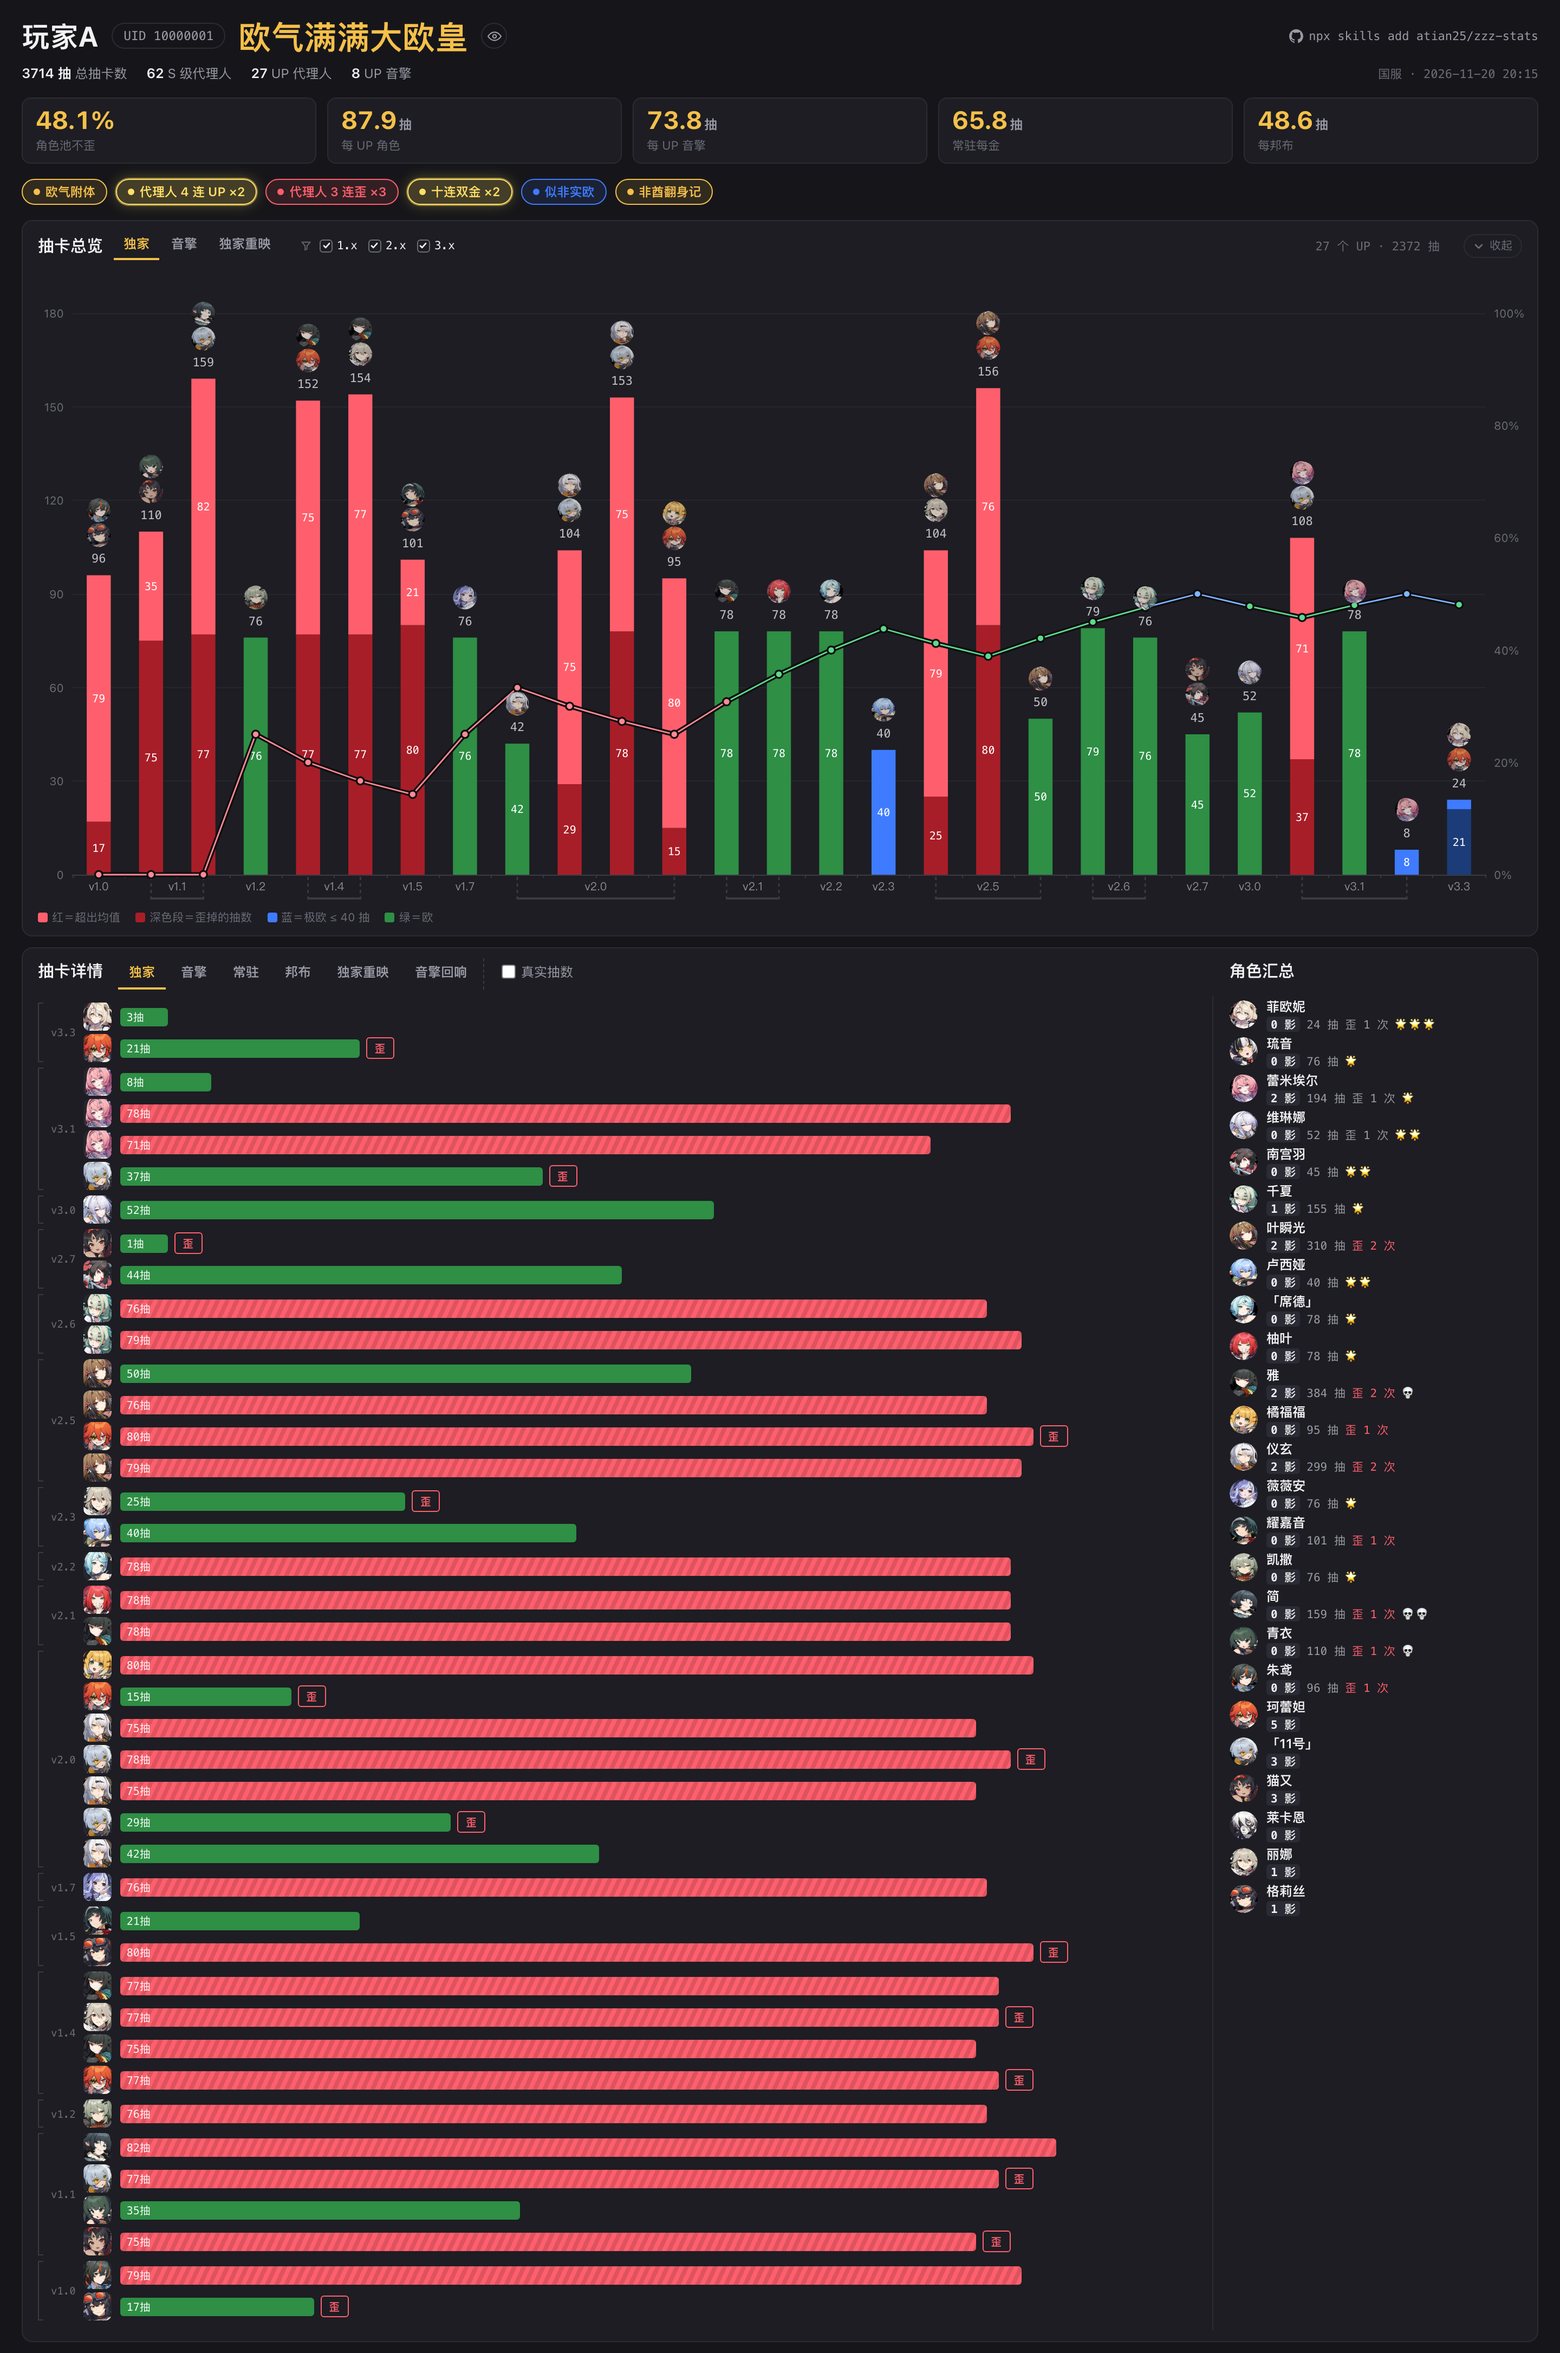
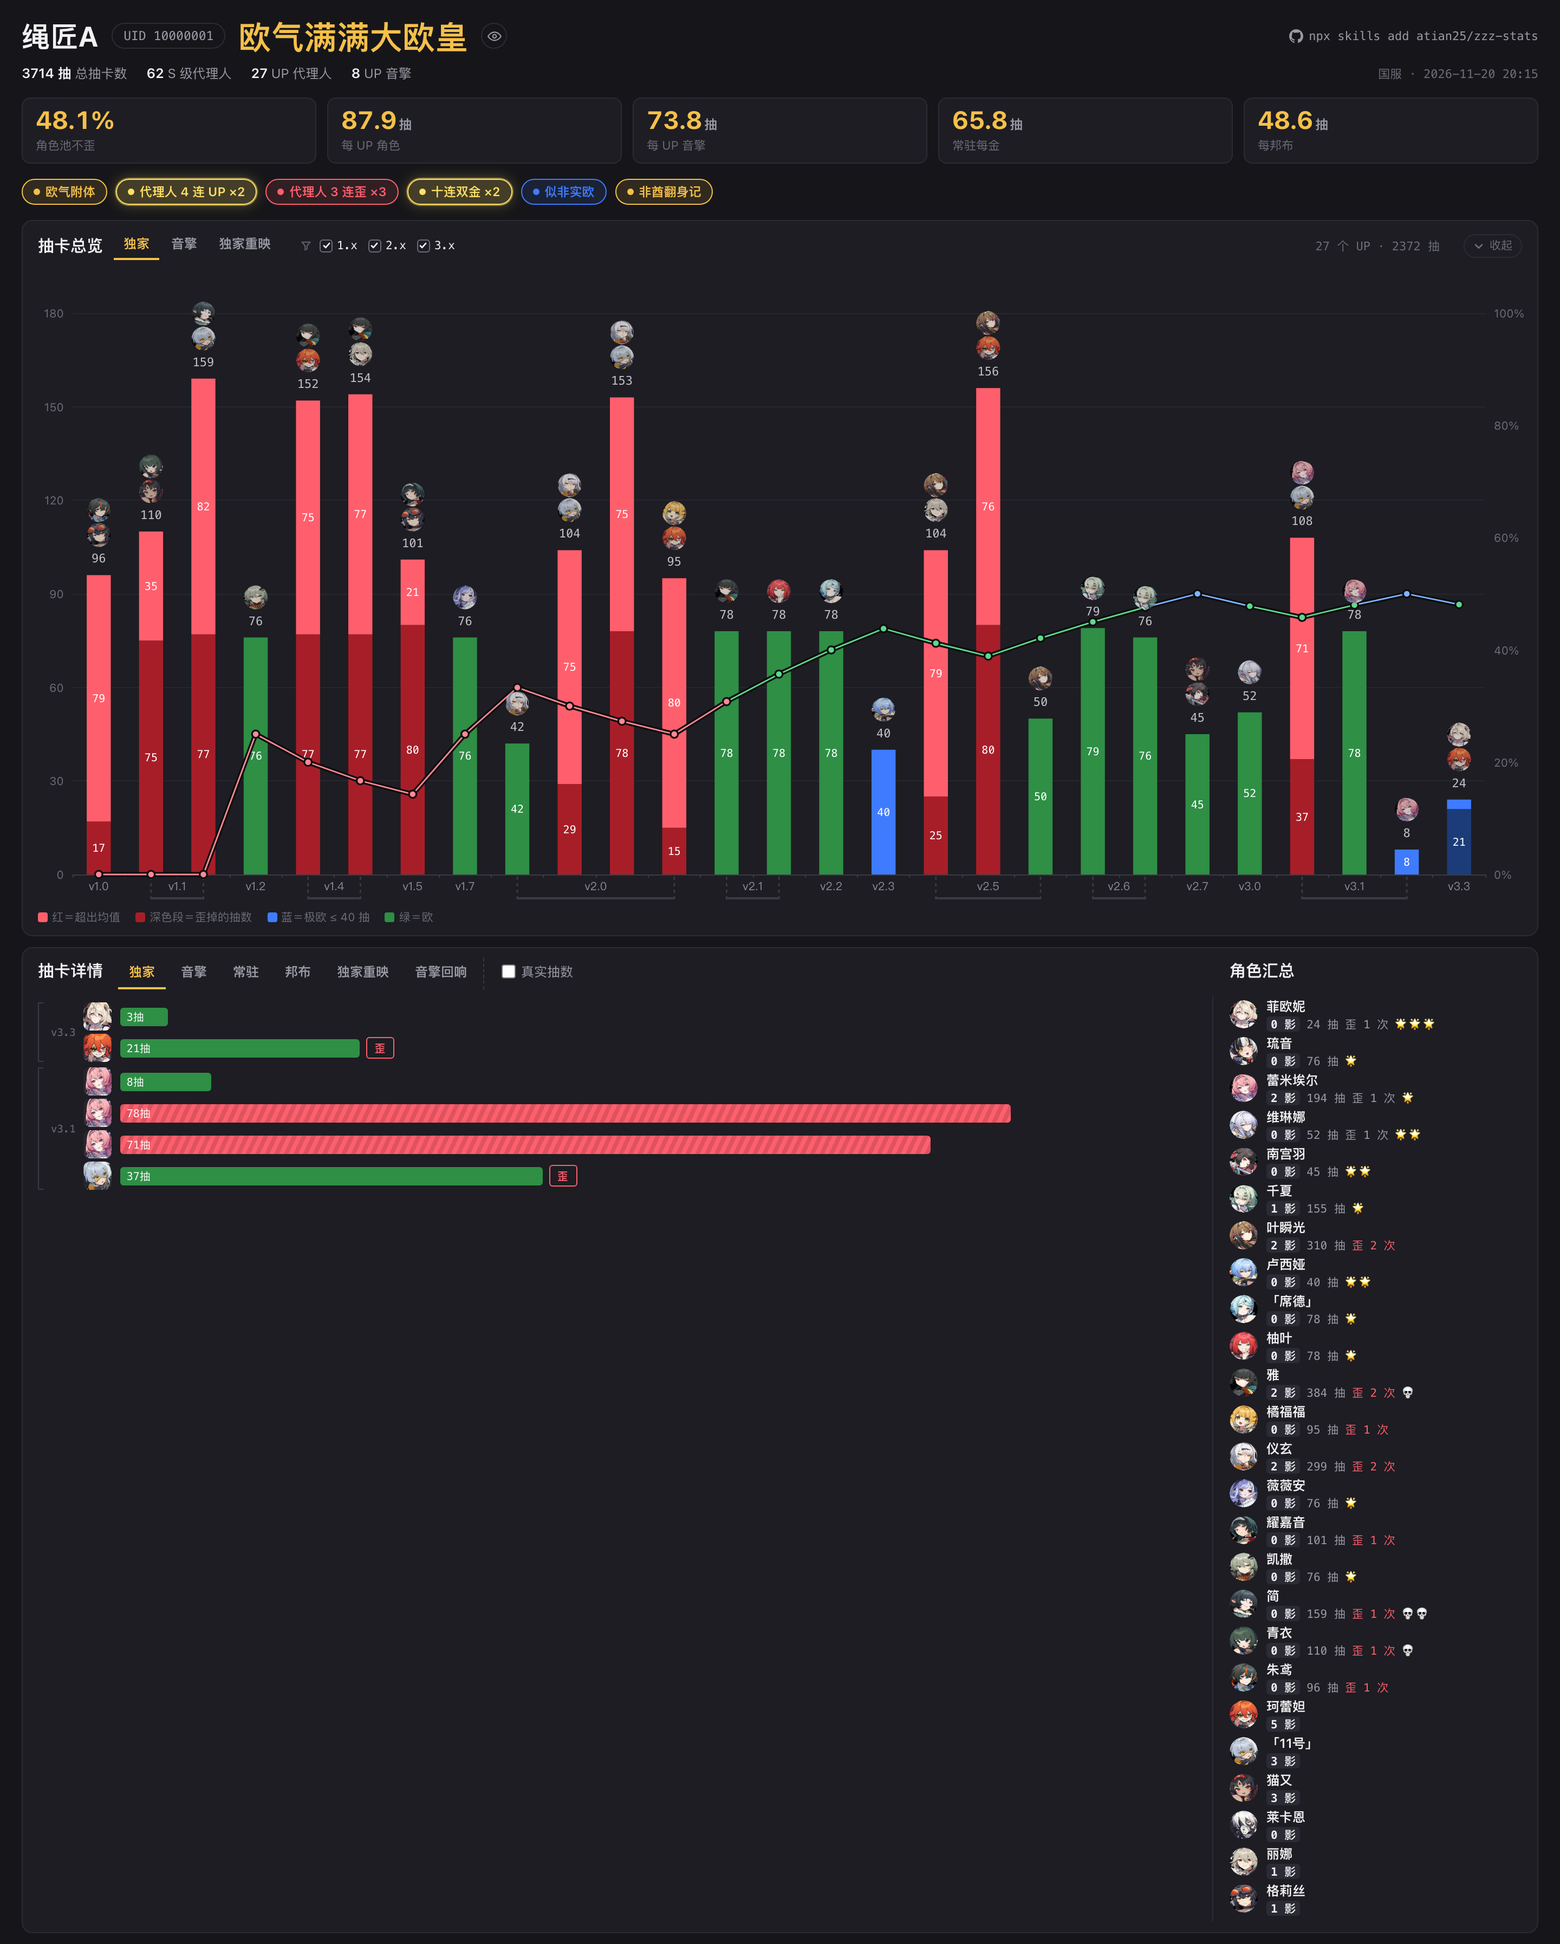
docs: 回填绳匠A/B 改名与 --detail-versions，按新尺寸重截预览图
README：--preview 的尺寸描述从「2880×2840 这样的长图」改成实测的
2880×3588，并写明默认只留 2 个版本组（改前整页 4342px），补充
--detail-versions 的示例命令与三种取值语义。

AGENTS.md：预览图那条同步新尺寸与截断默认值。

SKILL.md：在 --preview 隐私那段后面补截断口径——默认 2 组、右栏不截断、
显式传值优先，以及「截断后左栏短于右栏的留白不要改 align-items 去修」。

report-rules.md §9.3：新增「--detail-versions」小节，写清改前（16 组
41 行 4342px）vs 改后（2 组 6 行 3588px）、为什么按组不按行、右栏为什么
不截断、默认值四种情况、注入实现的两个坑（hidden 与 display 的优先级、
必须在切 tab 之后），以及截断后左栏空 666px 是 stretch 的必然结果
（实测 start/stretch 下 charsH 都是 854、docH 都是 1794，改 align 只会
让竖线断在半空）。

docs/preview.png 按新逻辑重截：2880×3588，详情 2 个版本组，右栏 25 行完整。

diff --git a/AGENTS.md b/AGENTS.md
@@ -19,7 +19,10 @@
   **不要**按 SKILL.md §0 的浏览器优先级去现拼 Chrome 命令行——那是采集期「找能扫码登录的浏览器」的语义，
   跟「截一张本地 HTML 的图」是两件事。`--user-data-dir` 脚本里已焊死，别再踩。
 - **README 预览图走 `node skills/zzz-stats/scripts/screenshot.mjs --preview`，不要手截。**
-  出的是 `docs/preview.png`：1440 逻辑宽、DPR 2、整页（当前实测 `2880×2840`，高度跟内容走）。
+  出的是 `docs/preview.png`：1440 逻辑宽、DPR 2、整页（当前实测 `2880×3588`，高度跟内容走）。
+  **详情列表默认只留前 2 个版本组**（`--detail-versions 2`，`--preview` 的默认值），
+  右栏角色汇总不截断——整页原样截会有 16 个版本组、4342px 高，README 上根本看不完。
+  显式 `--detail-versions N` 以传值为准，`0` 或不带 `--preview` 就是不截断。
   隐私按数据集来源分流：产物里 `meta.synthetic === true`（`fixtures/` 里的模拟数据）**不打码**，
   截图前反向断言昵称/UID **不含** `*`；其余一切**强制打码到 2**，断言 `eye=2` 且昵称/UID 含 `*`。
   **没有标记一律当真实数据**（fail-safe），两条分支断言不过都中止、不写文件。
@@ -64,7 +67,7 @@
   collect / save-in-page-json 用它决定**往哪写**，build-report / sync-icons / screenshot 用它决定**去哪读**。
   五处各写一遍必然漂移，而漂移的后果不是报错，是「写得进去、读不出来」。
 - **fixtures 里的数据必须脱敏后再入库。** 这是公开仓库：`meta.json` 的 `uid` 是假值
-  （`10000001` / `10000002`），昵称也用**中性占位名**（「玩家A / 玩家B」，不要写真实昵称）。真实 UID 永不入库——
+  （`10000001` / `10000002`），昵称也用**中性占位名**（「绳匠A / 绳匠B」，不要写真实昵称）。真实 UID 永不入库——
   采集脚本写出的原始 `data/` 带真 UID，那整份目录在 `.gitignore` 里。
 - **`baseline` 是对外展示基线，`multigold` 是测试数据。** README 头图（`docs/preview.png`）、发布说明、
   任何人看得到的图一律用 `fixtures/baseline` 出；`fixtures/multigold` 只用来验证多金分档（双金 + 三金，
@@ -78,7 +81,7 @@
   `grep -rl "<真实UID>" .` 确认零命中。要留下看的产物就留在仓库外，不要顺手 `git add`。
 - **但用 `fixtures/` 构建的产物不要删——它是交付给用户看的那份。**
   本机跑着 `python3 -m http.server 8899`（根目录 = 仓库根），用户点开的地址就是
-  `http://127.0.0.1:8899/output/玩家A/report.html`。删掉 `output/` 这个地址立刻 404，
+  `http://127.0.0.1:8899/output/绳匠A/report.html`。删掉 `output/` 这个地址立刻 404，
   用户看到的就是「url 挂了」（真实发生过两次，都是我提交前 `rm -rf output` 导致的）。
   判据是**数据来源**，不是目录名：`fixtures/*` 构建出来的（`meta.synthetic === true`、
   uid 是 `1000000x`）可以留在 `output/` 里持续服务；真实采集出来的必须清。

diff --git a/README.md b/README.md
@@ -99,13 +99,22 @@ node skills/zzz-stats/scripts/screenshot.mjs --chart 音擎                     
 node skills/zzz-stats/scripts/screenshot.mjs --filter 2                        # 截版本过滤生效之后
 node skills/zzz-stats/scripts/screenshot.mjs --html p.html --out-dir /tmp/x     # 指定产物与输出位置
 node skills/zzz-stats/scripts/screenshot.mjs --preview --html output/<账号名>/report.html   # → docs/preview.png（顶部头图，整页 2x）
+node skills/zzz-stats/scripts/screenshot.mjs --preview --detail-versions 3 --html output/<账号名>/report.html   # 详情列表留 3 个版本组
 ```
 
 `--html` 不传时会在 `output/*/report.html` 里找唯一的那个；有多份会报错退出，不猜（截错账号的图比失败更糟）。
 
 两档图是**验收**用的（看首屏装不装得下、图例有没有折行）；`--preview` 出的是**对外展示**用的头图，
-1440 逻辑宽、DPR 2、整页，所以是 `2880×2840` 这样的长图（高度跟内容走，不固定）。这张图以前是手工截的，
-代码改了它不会跟着变，README 上就挂着一张和实际产物对不上的截图，现在统一由脚本出，别手截。
+1440 逻辑宽、DPR 2、整页。当前实测 `2880×3588`（高度跟内容走，不固定）。
+
+`--preview` 默认把**抽卡详情列表截到前 2 个版本组**（`--detail-versions 2`），右栏角色汇总不截断。
+改前是整页原样截——详情列表铺满十几金的十几个版本组，图高 **4342px**、摊在 README 上就是一条细长的东西；
+改后 2 个版本组（v3.3 的 2 行 + v3.1 的 4 行 = 6 行），图高 **3588px**，短了 754px。
+显式传 `--detail-versions N` 以传值为准，传 `0` 或不传（非 `--preview` 模式）就是不截断。
+**右栏不截断**是有意的：它是全账号跨频段的汇总，截了「这个号一共拿到过哪些角色」就缺一块。
+
+这张图以前是手工截的，代码改了它不会跟着变，README 上就挂着一张和实际产物对不上的截图，
+现在统一由脚本出，别手截。
 
 `--preview` 的隐私按数据集来源分两条路，判据是产物里的 `report.meta.synthetic`：
 严格布尔 `true` 的数据集（`fixtures/` 里那些名字本来就是编的）**不打码**，其余一切**强制全打码**并断言。
